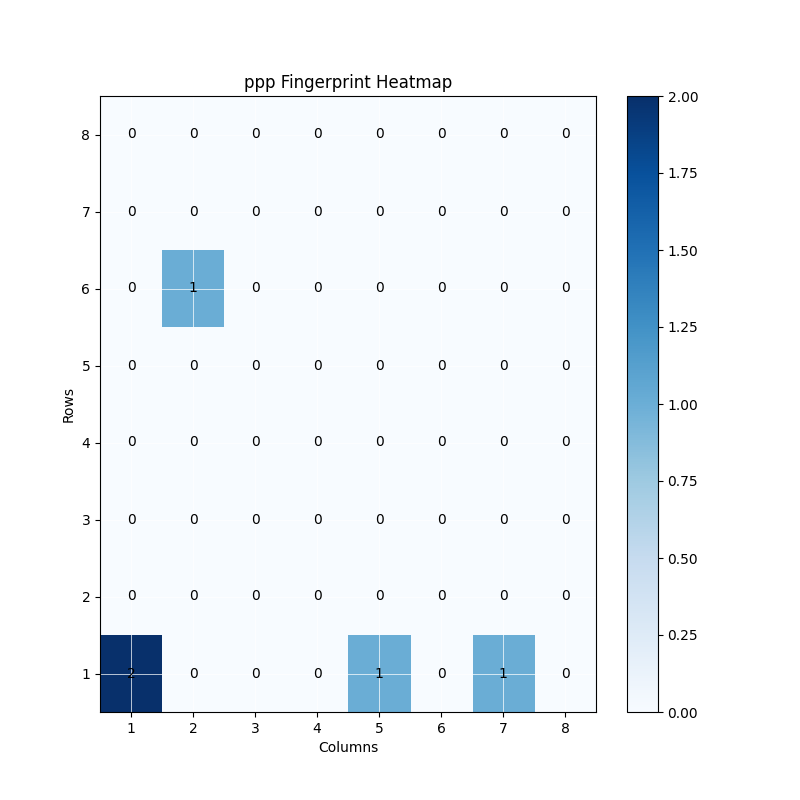
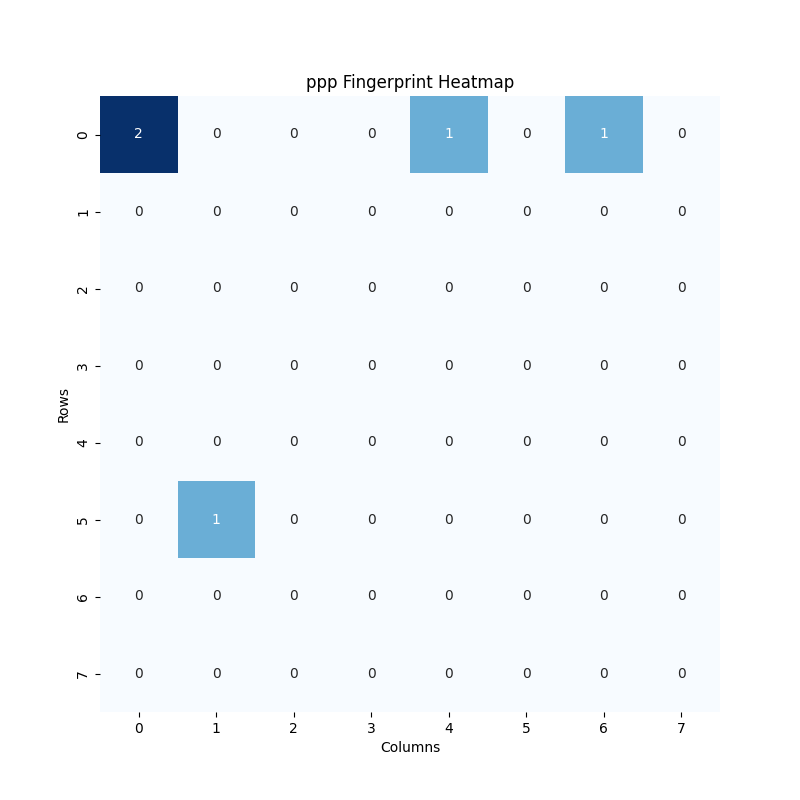
context-context added

diff --git a/5-fingerprint_visualization.py b/5-fingerprint_visualization.py
@@ -1,6 +1,7 @@
 import os
 import numpy as np
 import matplotlib.pyplot as plt
+import seaborn as sns
 
 # Function to load fingerprint matrix from file
 def load_fingerprint_matrix(phrase):
@@ -12,26 +13,38 @@ def load_fingerprint_matrix(phrase):
         fingerprint_matrix = [[int(value) for value in line.strip().split("\t")] for line in file]
     return fingerprint_matrix
 
-# Function to plot fingerprint matrix as heatmap
-def plot_fingerprint_heatmap(phrase, fingerprint_matrix):
+# Function to plot fingerprint matrix as heatmap using Seaborn for a single phrase
+def plot_single_phrase_heatmap(phrase, fingerprint_matrix):
     plt.figure(figsize=(8, 8))
-    plt.imshow(fingerprint_matrix, cmap="Blues", interpolation="nearest", aspect="auto")
-    plt.colorbar()
+    sns.heatmap(fingerprint_matrix, annot=True, fmt="d", cmap="Blues", cbar=False, xticklabels=True, yticklabels=True)
     plt.title(f"{phrase} Fingerprint Heatmap")
     plt.xlabel("Columns")
     plt.ylabel("Rows")
-    plt.xticks(np.arange(len(fingerprint_matrix[0])), np.arange(1, len(fingerprint_matrix[0]) + 1))
-    plt.yticks(np.arange(len(fingerprint_matrix)), np.arange(1, len(fingerprint_matrix) + 1))
-    plt.gca().invert_yaxis()  # Invert y-axis to match the matrix representation
-    plt.grid(color='w', linestyle='-', linewidth=0.5)  # Add grid lines
-    plt.gca().set_facecolor('white')  # Set background color to white
-
-    # Add annotations for each cell
-    for i in range(len(fingerprint_matrix)):
-        for j in range(len(fingerprint_matrix[0])):
-            plt.text(j, i, str(fingerprint_matrix[i][j]), ha='center', va='center', color='black')
-
+    
+    # Save the plot
     plt.savefig(f"./images/phrase_fingerprint_heatmap_{phrase.replace(' ', '_')}.png")
+  
+    plt.show()
+
+# Function to plot fingerprint matrices as side-by-side heatmaps using Seaborn for two phrases
+def plot_two_phrases_heatmaps(phrase1, fingerprint_matrix1, phrase2, fingerprint_matrix2):
+    plt.figure(figsize=(16, 8))
+    
+    plt.subplot(1, 2, 1)
+    sns.heatmap(fingerprint_matrix1, annot=True, fmt="d", cmap="Blues", cbar=False, xticklabels=True, yticklabels=True)
+    plt.title(f"{phrase1} Fingerprint Heatmap")
+    plt.xlabel("Columns")
+    plt.ylabel("Rows")
+
+    plt.subplot(1, 2, 2)
+    sns.heatmap(fingerprint_matrix2, annot=True, fmt="d", cmap="Blues", cbar=False, xticklabels=True, yticklabels=True)
+    plt.title(f"{phrase2} Fingerprint Heatmap")
+    plt.xlabel("Columns")
+    plt.ylabel("Rows")
+    
+    # Save the plot
+    plt.savefig(f"./images/phrase_fingerprint_heatmap_{phrase1.replace(' ', '_')}_{phrase2.replace(' ', '_')}.png")
+
     plt.show()
 
 # Main function
@@ -43,39 +56,17 @@ def main():
         phrase1 = phrases[0]
         fingerprint_matrix1 = load_fingerprint_matrix(phrase1)
         if fingerprint_matrix1:
-            plot_fingerprint_heatmap(phrase1, fingerprint_matrix1)
+            plot_single_phrase_heatmap(phrase1, fingerprint_matrix1)
+        else:
+            print(f"Fingerprint matrix not found for '{phrase1}'.")
     elif len(phrases) == 2:
         phrase1, phrase2 = phrases
         fingerprint_matrix1 = load_fingerprint_matrix(phrase1)
         fingerprint_matrix2 = load_fingerprint_matrix(phrase2)
         if fingerprint_matrix1 and fingerprint_matrix2:
-            plt.figure(figsize=(16, 8))
-            plt.subplot(1, 2, 1)
-            plt.imshow(fingerprint_matrix1, cmap="Blues", interpolation="nearest", aspect="auto")
-            plt.colorbar()
-            plt.title(f"{phrase1} Fingerprint Heatmap")
-            plt.xlabel("Columns")
-            plt.ylabel("Rows")
-            plt.xticks(np.arange(len(fingerprint_matrix1[0])), np.arange(1, len(fingerprint_matrix1[0]) + 1))
-            plt.yticks(np.arange(len(fingerprint_matrix1)), np.arange(1, len(fingerprint_matrix1) + 1))
-            plt.gca().invert_yaxis()
-            plt.grid(color='w', linestyle='-', linewidth=0.5)
-            plt.gca().set_facecolor('white')
-
-            plt.subplot(1, 2, 2)
-            plt.imshow(fingerprint_matrix2, cmap="Blues", interpolation="nearest", aspect="auto")
-            plt.colorbar()
-            plt.title(f"{phrase2} Fingerprint Heatmap")
-            plt.xlabel("Columns")
-            plt.ylabel("Rows")
-            plt.xticks(np.arange(len(fingerprint_matrix2[0])), np.arange(1, len(fingerprint_matrix2[0]) + 1))
-            plt.yticks(np.arange(len(fingerprint_matrix2)), np.arange(1, len(fingerprint_matrix2) + 1))
-            plt.gca().invert_yaxis()
-            plt.grid(color='w', linestyle='-', linewidth=0.5)
-            plt.gca().set_facecolor('white')
-
-            plt.savefig(f"{phrase1.replace(' ', '_')}_{phrase2.replace(' ', '_')}_fingerprint_heatmap.png")
-            plt.show()
+            plot_two_phrases_heatmaps(phrase1, fingerprint_matrix1, phrase2, fingerprint_matrix2)
+        else:
+            print(f"Fingerprint matrix not found for one or both phrases.")
     else:
         print("Invalid number of phrases. Please enter one or two phrases.")
 

diff --git a/3-semantic_space.py b/3-semantic_space.py
@@ -33,12 +33,57 @@ for context_id, context_data in term_context_matrix.items():
 pos = nx.spring_layout(G, seed=200, center=(0.0, 0.0), k=NUM_DIMENSIONS / 2, weight='weight')
 
 # Calculate figsize based on the number of dimensions
-figsize = (NUM_DIMENSIONS, NUM_DIMENSIONS)
+figsize = (10, 6)
+
+# Extract edge weights to set edge widths
+edge_weights = [data['weight'] for _, _, data in G.edges(data=True)]
 
 plt.figure(figsize=figsize)
-nx.draw(G, pos, with_labels=True, node_color="skyblue", node_size=1500, font_size=10, font_weight="bold")
+nx.draw(G, pos, with_labels=True, node_color="skyblue", node_size=1500, font_size=10, font_weight="bold",
+        width=edge_weights, edge_cmap=plt.cm.YlGnBu, edge_color=edge_weights, font_color="black", alpha=0.9)
+
+
+# edge_cmap=plt.cm.PuRd
+# edge_cmap=plt.cm.RdYlBu
+# edge_cmap=plt.cm.magma
+
+# Add edge labels (weights)
+# edge_labels = {(edge[0], edge[1]): f'{edge[2]["weight"]:.2f}' for edge in G.edges(data=True)}
+# nx.draw_networkx_edge_labels(G, pos, edge_labels=edge_labels, font_color='red')
+
 plt.title("Semantic Matrix Mapping")
+# Save the plot
+plt.savefig(f"./images/graph.png")
+ 
 plt.show()
+
+
+
+context_context_matrix = np.zeros((NUM_CONTEXT, NUM_CONTEXT), dtype=int)
+for context_id, context_data in term_context_matrix.items():
+    for neighbor_id, neighbor_data in term_context_matrix.items():
+        if context_id != neighbor_id:
+            weight = sum(c1 * c2 for c1, c2 in zip(context_data, neighbor_data))
+            weight_normalized = weight / 20
+            if weight_normalized > 0.3:
+                context_context_matrix[int(context_id) - 1, int(neighbor_id) - 1] = int(weight)
+
+# Find the indices of non-zero entries in the context-context matrix
+nonzero_indices = np.nonzero(context_context_matrix)
+
+# Create a heatmap using seaborn for the non-zero entries
+plt.figure(figsize=(8, 6))
+sns.heatmap(context_context_matrix, annot=True, fmt="d", cmap="YlGnBu", cbar=True,
+            xticklabels=True, yticklabels=True, mask=(context_context_matrix == 0))
+plt.title("Context-Context Matrix (Non-Zero Entries)")
+plt.xlabel("Context ID")
+plt.ylabel("Context ID")
+# Save the plot
+plt.savefig(f"./images/context_context_heatmap.png")
+ 
+plt.show()
+
+
 
 # Generate a dictionary to store context IDs and their corresponding cell coordinates
 context_coordinates = {}
@@ -67,7 +112,7 @@ for coordinates in context_coordinates.values():
 matrix_data = np.zeros((NUM_DIMENSIONS, NUM_DIMENSIONS), dtype=int)
 for row, col in zip(rows, cols):
     matrix_data[row, col] += 1
-
+plt.figure(figsize=(8, 6))
 # Create a heatmap using seaborn
 sns.heatmap(matrix_data, annot=True, fmt="d", cmap="YlGnBu", cbar=True, xticklabels=True, yticklabels=True)
 # plt.scatter(cols, rows, marker='s', color='red', label='Contexts')  # Add red squares for context positions
@@ -75,4 +120,5 @@ plt.title("Semantic Matrix Mapping - Heatmap")
 plt.xlabel("Column")
 plt.ylabel("Row")
 plt.legend()
+plt.savefig(f"./images/semantic_space_heatmap.png")
 plt.show()
